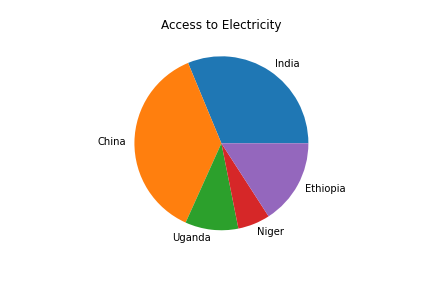
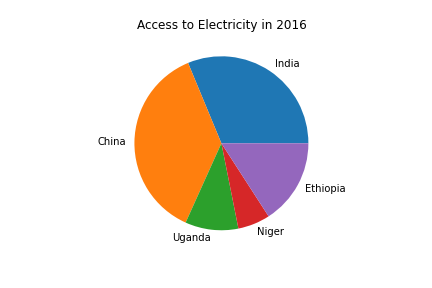
Add files via upload
Added comments and docstrings for each functions

Changed region(s): [[0.3009, 0.0625, 0.7222, 0.125]]

diff --git a/ADS_Assignment_Visualisation.py b/ADS_Assignment_Visualisation.py
@@ -9,55 +9,122 @@ import pandas as pd
 import matplotlib.pyplot as plt
 
 
+'''
+function named lineplot is defined for creating the line graph.
+arguments such as line_data and an array of countries that passed from function call are
+received here as dataline and countries and used for fetching data required for plotting
+line graph
+'''
+
+
 def lineplot(dataline, countries):
-    print("Data for Line Plot")
+    print("\n Data for Line Plot \n")
     print(dataline)
-    plt.figure(figsize=(8, 6))
-    for x in countries:
-        plt.plot(dataline["Year"], dataline[x], label=x)
+
+    # creating figure and setting the figure size
+    plt.figure(figsize = (8, 6))
+
+    # Using a for loop the data for each row and column is ploted
+    for cntry in countries:
+        plt.plot(dataline["Year"], dataline[cntry], label=cntry)
+
+    # limits for x axis and y axis are given
     plt.xlim(2007, 2016)
     plt.ylim(0, 40)
     plt.xticks(dataline["Year"], labels=dataline["Year"], rotation='vertical')
+
+    # labelling the x, y axis and title of the graph
     plt.xlabel("Year")
     plt.ylabel("Goods and Services export")
     plt.title("Exports of goods and services (% of GDP)")
+
+    #code for creating legend
     plt.legend()
+
+    # saving the figure of lineplot as png
     plt.savefig("Figure_line_Plot.png")
     plt.show()
-    return
+    return  # return statement should be the finishing statement of a function
+
+
+'''
+function named piechart is defined for creating pie chart 
+argument named pie_data is passed from the function call are received here as datapie.
+The data fetched from the arguments are used for creating pie chart
+'''
 
 
 def piechart(datapie):
-    print("Data for Pie Chart")
+    print("\n Data for Pie Chart \n")
     print(datapie)
+
+    # creating the pie chart
     plt.figure()
     plt.pie(datapie["2016"], labels=datapie["Country"])
-    plt.title("Access to electricity")
-    plt.savefig("Figure_Pie_Chart.png")
+    plt.title("Access to Electricity in 2016")  # given title of the figure
+    plt.savefig("Figure_Pie_Chart.png")  # saving the figure of pie chart
     plt.show()
     return
 
 
+'''
+function named barplot is used to create bar graph.
+argument is passed from function call as bar_data and   received  here as databar.
+data from databar is fetched to plot bar graph
+'''
+
+
 def barplot(databar):
-    print("Data for Bar Graph")
+    print("\n Data for Bar Graph \n")
     print(databar)
-    plt.figure(figsize=(8, 6))
+
+    #creating new figure and figure size is set
+    plt.figure(figsize = (8, 6))
+
+    # data for each row and coloumn are fetched and plotted
     plt.bar(databar["Year"], databar["South Sudan"], label="South Sudan")
     plt.title("Access to electricity (% of population)")
     plt.xticks(databar["Year"], labels=databar["Year"], rotation='vertical')
+
+    # labelling x and y axis
     plt.xlabel("Year")
     plt.ylabel("Electricity Access")
     plt.legend()
+
+    # saving the figure as png
     plt.savefig("Figure_Bar_Graph.png")
     plt.show()
     return
 
 
+'''
+main function is the function where a program starts its working
+Program execution starts from main function
+'''
+
+
 if __name__ == "__main__":
+
+    
+  '''
+  The following three variables are used to store the data read from the 
+  excel data sources for Line Plot, Pie Chart and Bar Graph.
+  '''
+
 
   line_data = pd.read_excel("data_line_plot.xlsx")
   pie_data = pd.read_excel("data_pie_chart.xlsx")
   bar_data = pd.read_excel("data_bar_graph.xlsx")
+
+
+  # calling lineplot function.Data source and an array is passed as arguments
   lineplot(line_data, ["China", "United States", "United Kingdom", "India"])
+
+
+  # calling piechart function along with data source as argument
   piechart(pie_data)
+
+
+  # calling barplot function along with its data source as argument
   barplot(bar_data)
+
